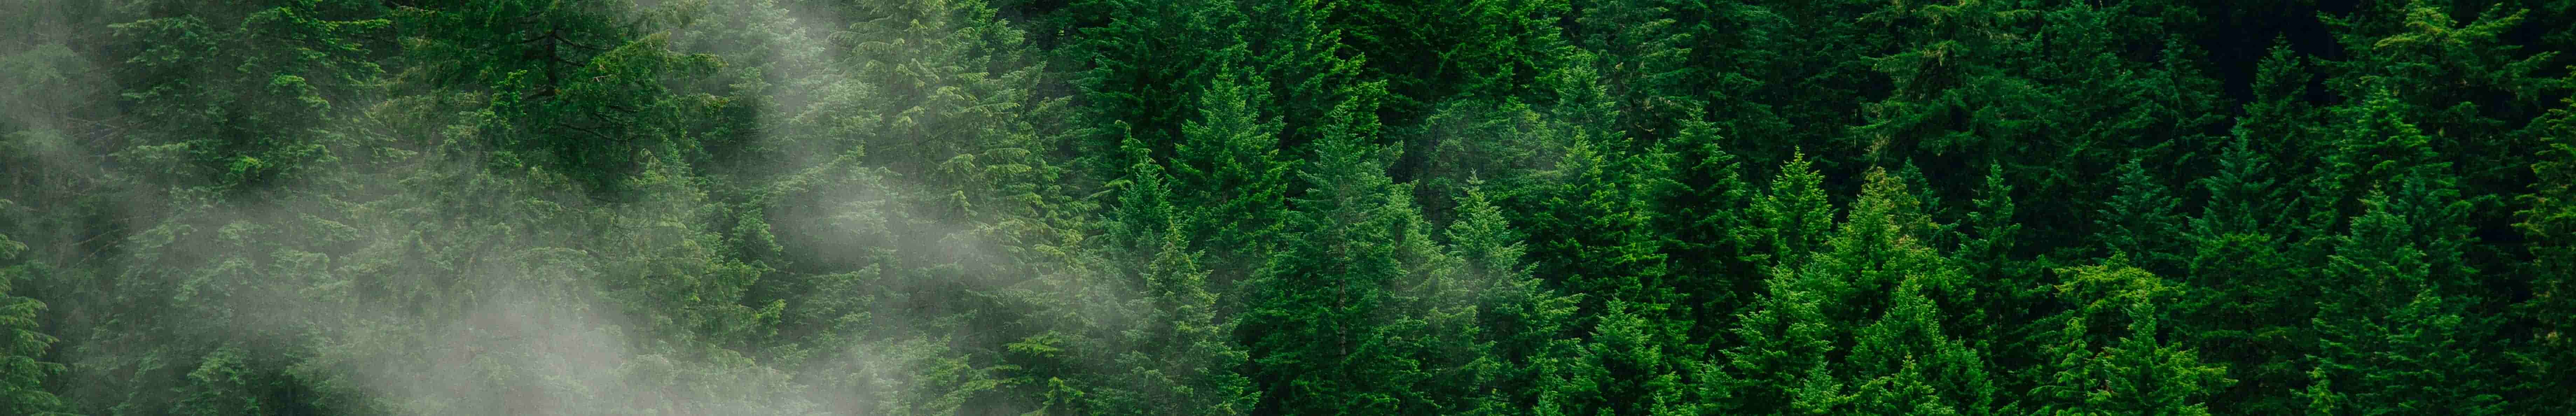
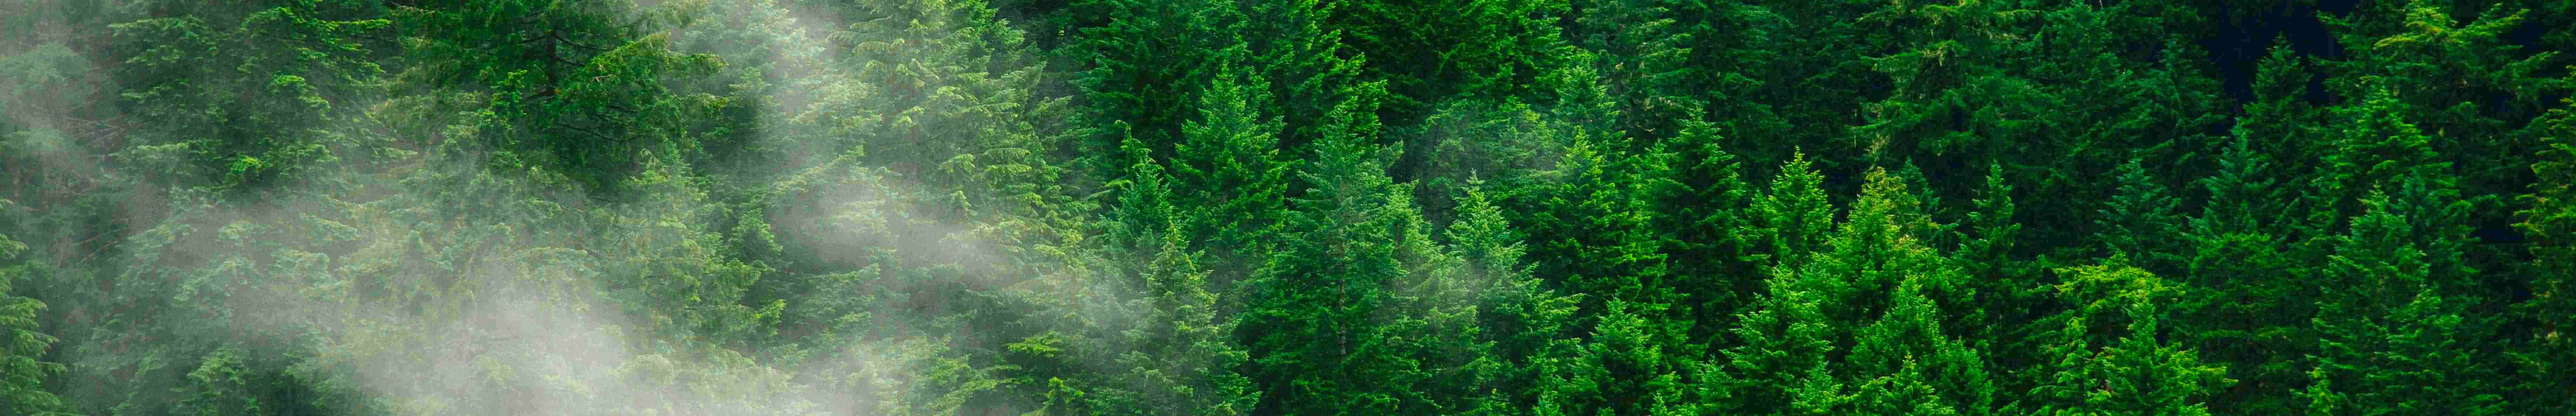
Change home photo, ACM SRC title and plural to singular in home

diff --git a/index.html b/index.html
@@ -166,7 +166,7 @@
 <p>Hi there! I am <strong>Roberto Verdecchia</strong>, double Ph.D. Candidate of the <a href="http://cs.gssi.infn.it/" target="_blank"><font color="1DA1F2">Computer Science Department</font></a> at the <a href="http://www.gssi.infn.it/" target="_blank"><font color="1DA1F2">Gran Sasso Science Institute</font></a> and of the <a href="http://www.s2group.cs.vu.nl/" target="_blank"><font color="1DA1F2">S2Group</font></a> at the <a href="https://www.vu.nl/en" target="_blank"><font color="1DA1F2">Vrije Universiteit Amsterdam</font></a>.
 <br /><br /></p>
 
-<p>My research interests lie in the intersection between <em>Software Architecture</em> and <em>Technical Debt</em> (which combined can look something like <a href="https://xkcd.com/1579/" target="_blank"><font color="1DA1F2">this</font></a>). <br />
+<p>My research interest lies in the intersection between <em>Software Architecture</em> and <em>Technical Debt</em> (which combined can look something like <a href="https://xkcd.com/1579/" target="_blank"><font color="1DA1F2">this</font></a>). <br />
 I am also fascinated by topics related to <em>Software Energy Efficiency</em> and <em>Software Testing</em>.
 <br /><br /></p>
 

diff --git a/research/index.html b/research/index.html
@@ -166,7 +166,7 @@
 15th International Conference on Software Architecture <a href="http://icsa-conferences.org/2018/" target="_blank"><font color="1DA1F2">(ICSA 2018)</font></a>. Seattle. United States. <br /></li>
   <li><em>Runner-up Best Paper Award</em> <br />
 5th International Conference on ICT for Sustainability <a href="http://2018.ict4s.org/" target="_blank"><font color="1DA1F2">(ICT4S 2018)</font></a>. Toronto. Canada. <br /></li>
-  <li><em>Bronze medal - MOBILESoft SRC</em> <br />
+  <li><em>Bronze medal - ACM Student Research Competition</em> <br />
 5th International Conference on Mobile Software Engineering and System <a href="http://mobilesoftconf.org/2018/" target="_blank"><font color="1DA1F2">(MOBILESoft 2018)</font></a>. Gothenburg. Sweden. <br /></li>
 </ul>
 
